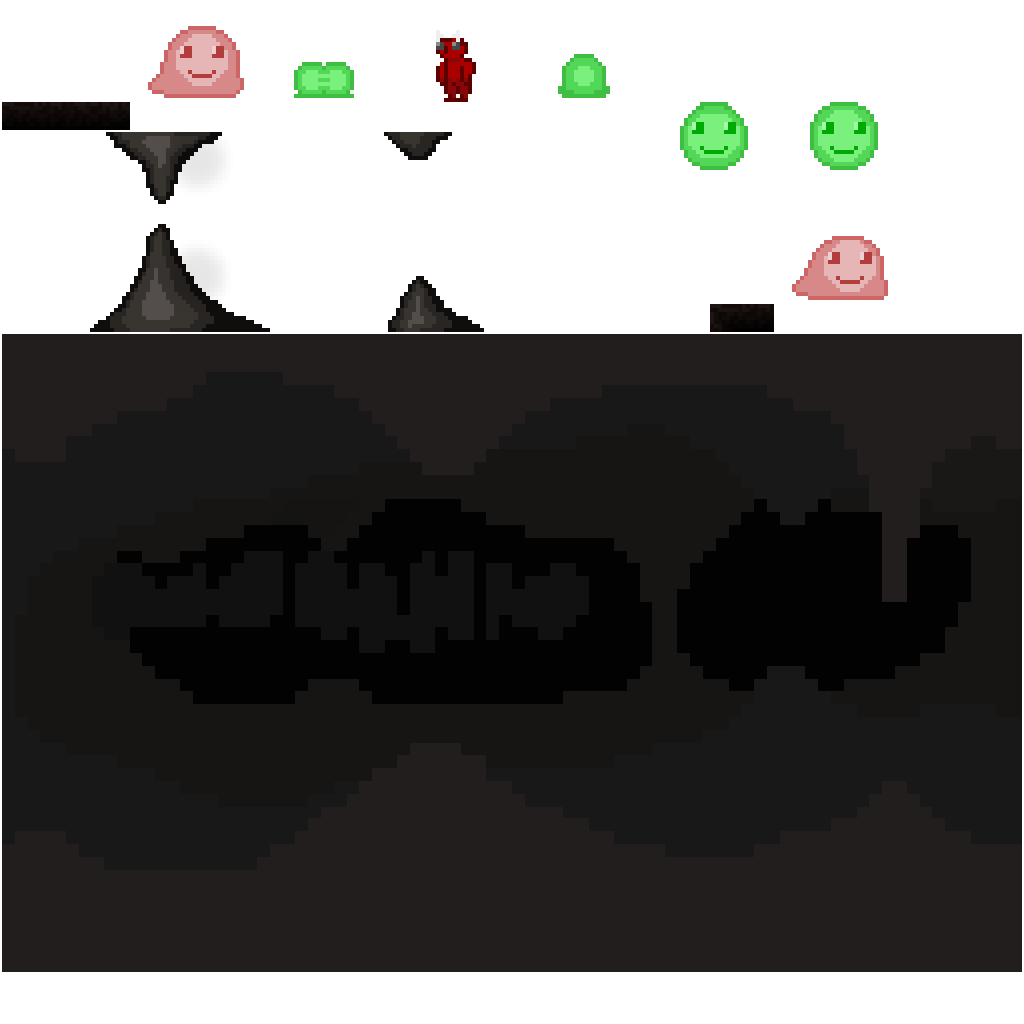
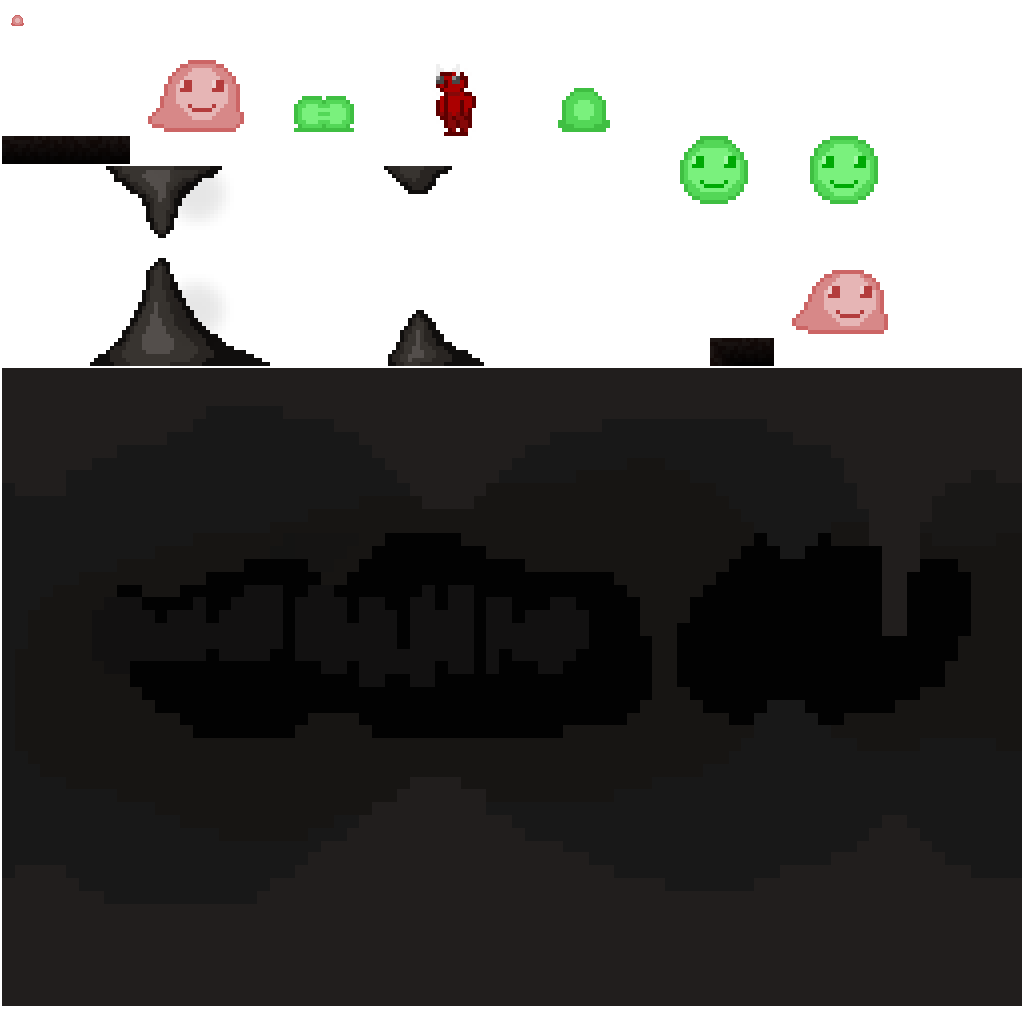
inserting asset for redJelly and spawning it

diff --git a/core/src/com/mygdx/game/Level.java b/core/src/com/mygdx/game/Level.java
@@ -9,6 +9,7 @@ import com.mygdx.game.objects.AbstractGameObject;
 import com.mygdx.game.objects.Backdrop;
 import com.mygdx.game.objects.Ground;
 import com.mygdx.game.objects.Jelly;
+import com.mygdx.game.objects.RedJelly;
 import com.mygdx.game.objects.SlimyCharacter;
 
 public class Level 
@@ -45,6 +46,7 @@ public class Level
 	
 	public Array<Ground> ground;
 	public Array<Jelly> jelly;
+	public Array<RedJelly> redJelly;
 	
 	public Backdrop backdrop;
 	
@@ -67,6 +69,7 @@ public class Level
 		slimy = null;
 		ground = new Array<Ground>();
 		jelly = new Array<Jelly>();
+		redJelly = new Array<RedJelly>();
 		
 		//load image file that represents the level data
 		Pixmap pixmap = new Pixmap(Gdx.files.internal(filename));
@@ -135,6 +138,10 @@ public class Level
 				}
 				else if(BLOCK_TYPE.REDJELLY.sameColor(currentPixel))
 				{
+					obj = new RedJelly();
+					offsetHeight = -2.5f;
+					obj.position.set(pixelX, baseHeight * obj.dimension.y + offsetHeight);
+					redJelly.add((RedJelly)obj);
 				}
 				else
 				{
@@ -168,6 +175,9 @@ public class Level
 			floor.render(batch);	
 
 		for (Jelly plop : jelly)
+			plop.render(batch);
+		
+		for (RedJelly plop : redJelly)
 			plop.render(batch);
 		
 		slimy.render(batch);

diff --git a/core/src/com/mygdx/game/Assets.java b/core/src/com/mygdx/game/Assets.java
@@ -27,6 +27,7 @@ public class Assets implements Disposable, AssetErrorListener
 	public AssetImp imp;
 	public AssetJelly jelly;
 	public AssetDividingJelly dividing_jelly;
+	public AssetRedJelly redJelly;
 	public AssetCave cave;
 	public BitmapFont defaultNormal;
 	public BitmapFont menuNormal;
@@ -66,6 +67,7 @@ public class Assets implements Disposable, AssetErrorListener
 		slimy = new AssetSlimy(atlas);
 		imp = new AssetImp(atlas);
 		jelly = new AssetJelly(atlas);
+		redJelly = new AssetRedJelly(atlas);
 		dividing_jelly = new AssetDividingJelly(atlas);
 		cave = new AssetCave(atlas);
 		defaultNormal = new BitmapFont(new FileHandle("../core/assets/arial-15.fnt"), true);
@@ -139,6 +141,16 @@ public class Assets implements Disposable, AssetErrorListener
 		public AssetJelly(TextureAtlas atlas)
 		{
 			jelly = atlas.findRegion("jelly");
+		}
+	}
+	
+	public class AssetRedJelly
+	{
+		public final AtlasRegion redJelly;
+		
+		public AssetRedJelly(TextureAtlas atlas)
+		{
+			redJelly = atlas.findRegion("redJelly");
 		}
 	}
 	

diff --git a/core/src/com/mygdx/game/objects/RedJelly.java b/core/src/com/mygdx/game/objects/RedJelly.java
@@ -1,0 +1,40 @@
+package com.mygdx.game.objects;
+
+import com.badlogic.gdx.graphics.g2d.SpriteBatch;
+import com.badlogic.gdx.graphics.g2d.TextureRegion;
+import com.mygdx.game.Assets;
+
+public class RedJelly extends AbstractGameObject
+{
+	public boolean collected;
+	
+	private TextureRegion reg;
+
+	public RedJelly()
+	{
+		init();
+	}
+	
+	private void init()
+	{
+		dimension.set(0.5f, 0.5f);
+		
+		reg = Assets.instance.redJelly.redJelly;
+				
+		//Set bounding box for collision detection
+		bounds.set(0, 0, dimension.x, dimension.y);
+		
+		collected = false;
+	}
+	
+	@Override
+	public void render(SpriteBatch batch)
+	{
+		if(collected) return;
+		
+		batch.draw(reg.getTexture(), position.x, position.y, origin.x, origin.y, 
+				dimension.x, dimension.y, scale.x, scale.y, rotation, reg.getRegionX(),
+				reg.getRegionY(), reg.getRegionWidth(), reg.getRegionHeight(), false, false);
+	}
+
+}
